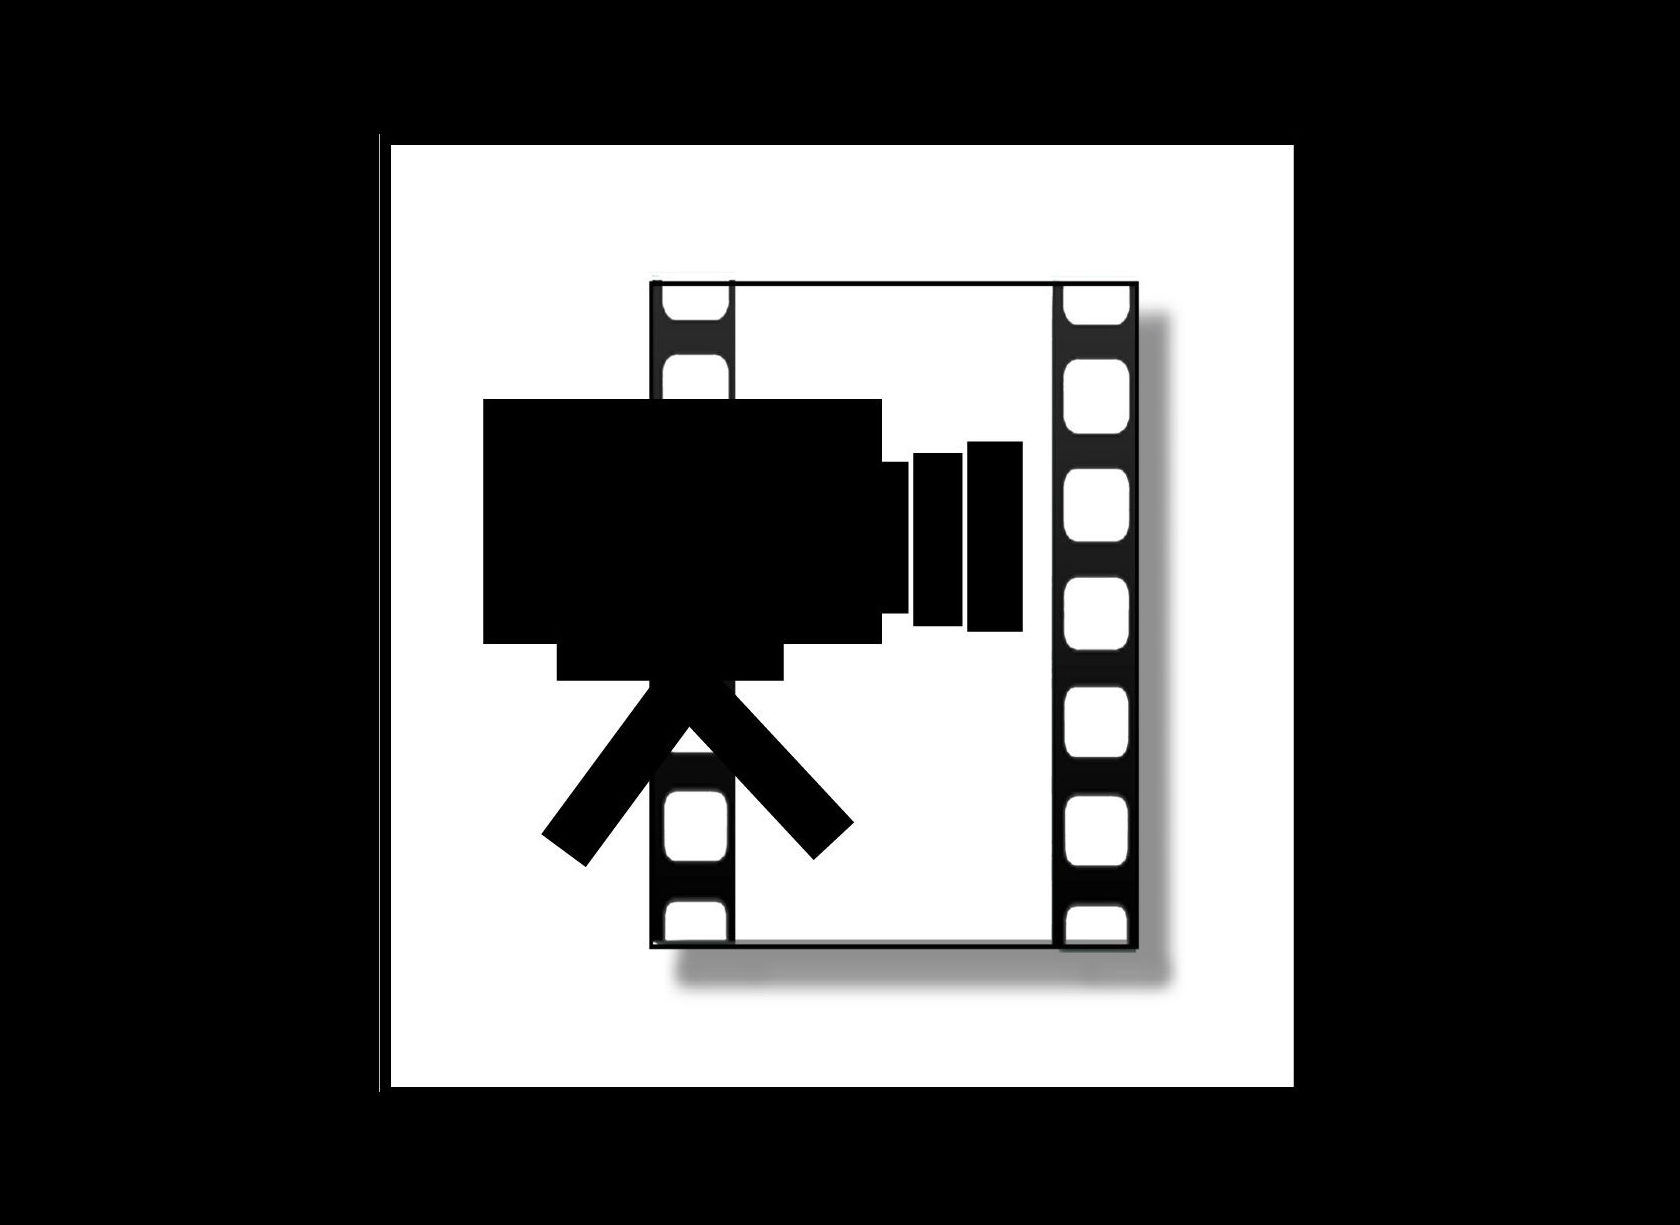
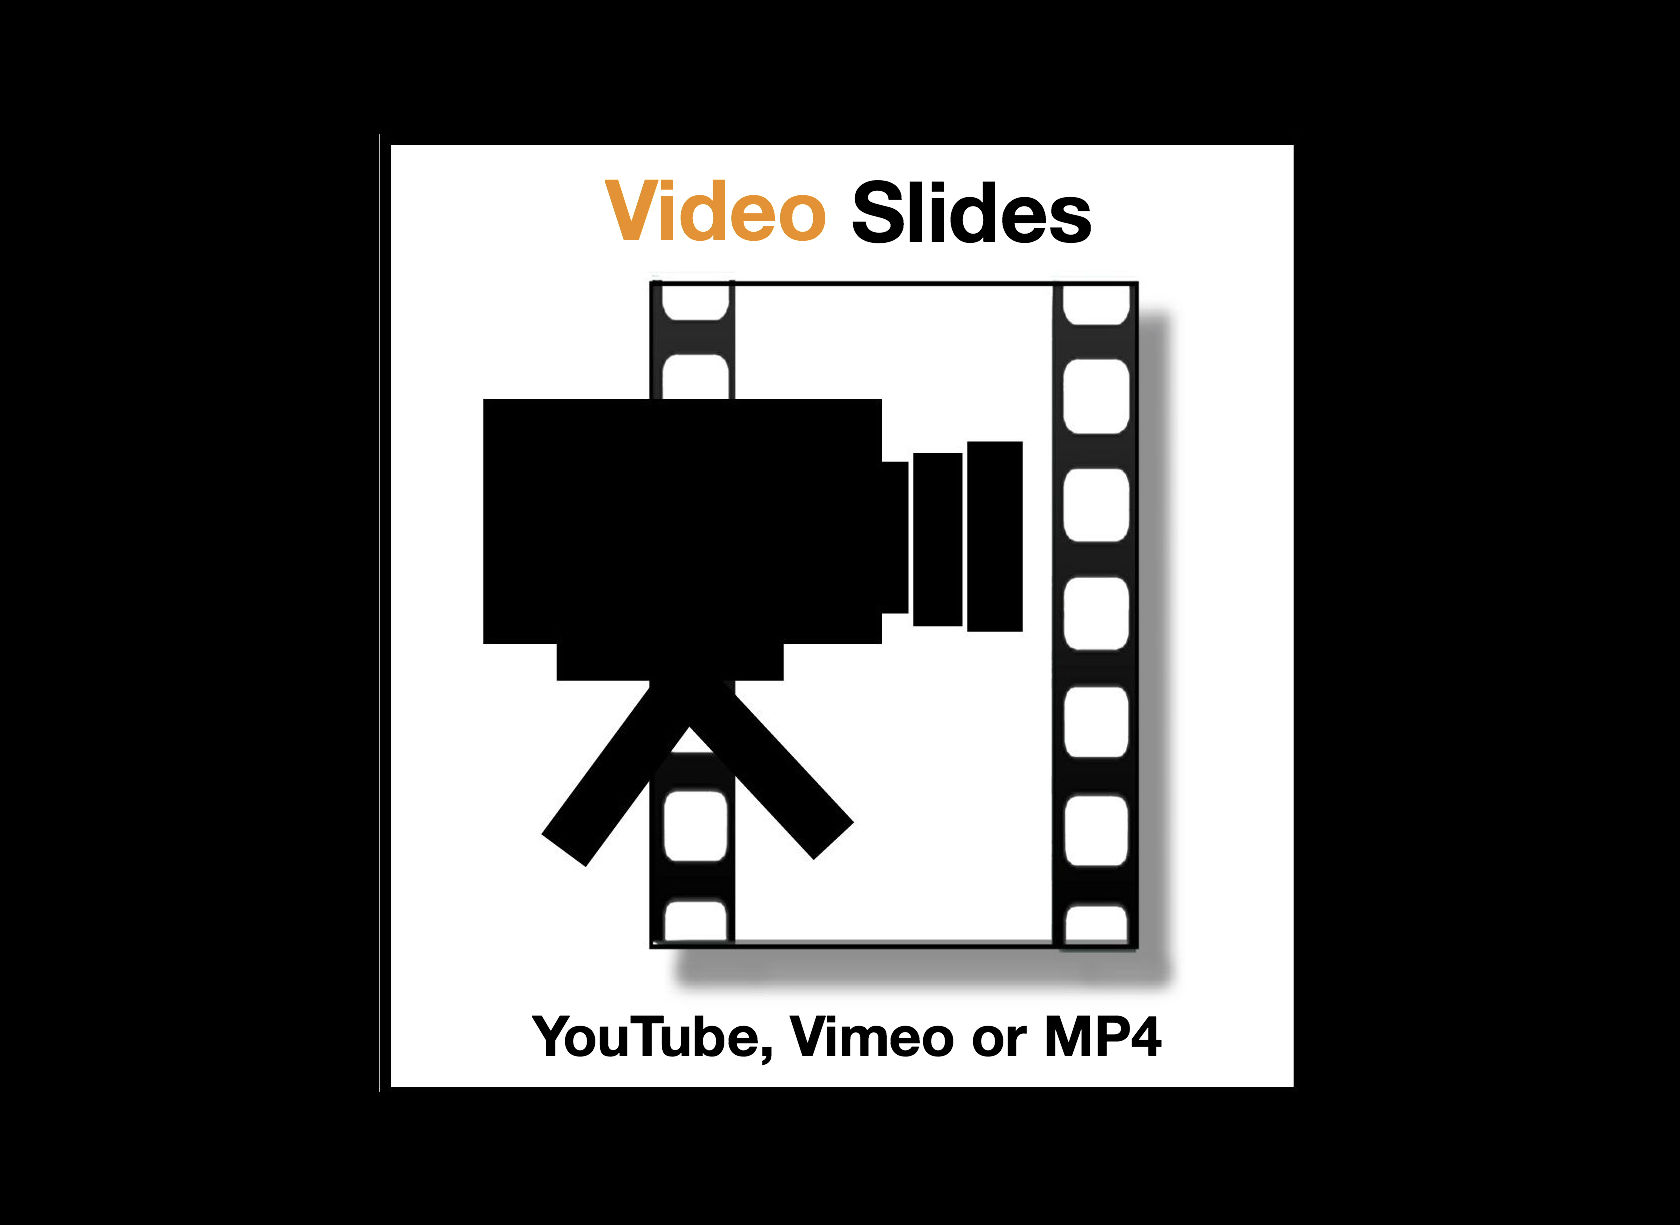
Dev md.

Changed region(s): [[0.3405, 0.1241, 0.65, 0.2171], [0.3095, 0.8065, 0.7119, 0.8686]]

diff --git a/PITCHME.md b/PITCHME.md
@@ -87,12 +87,6 @@ To Share Code, Notes and Snippets
 
 #HSLIDE?image=assets/videoslides.jpg
 
-#####Video Slides
-
-<br><br><br><br>
-<br><br><br><br>
-YouTube, Vimeo or MP4
-
 #VSLIDE
 
 ![Cartoon Video](https://www.youtube.com/embed/mkiDkkdGGAQ)
